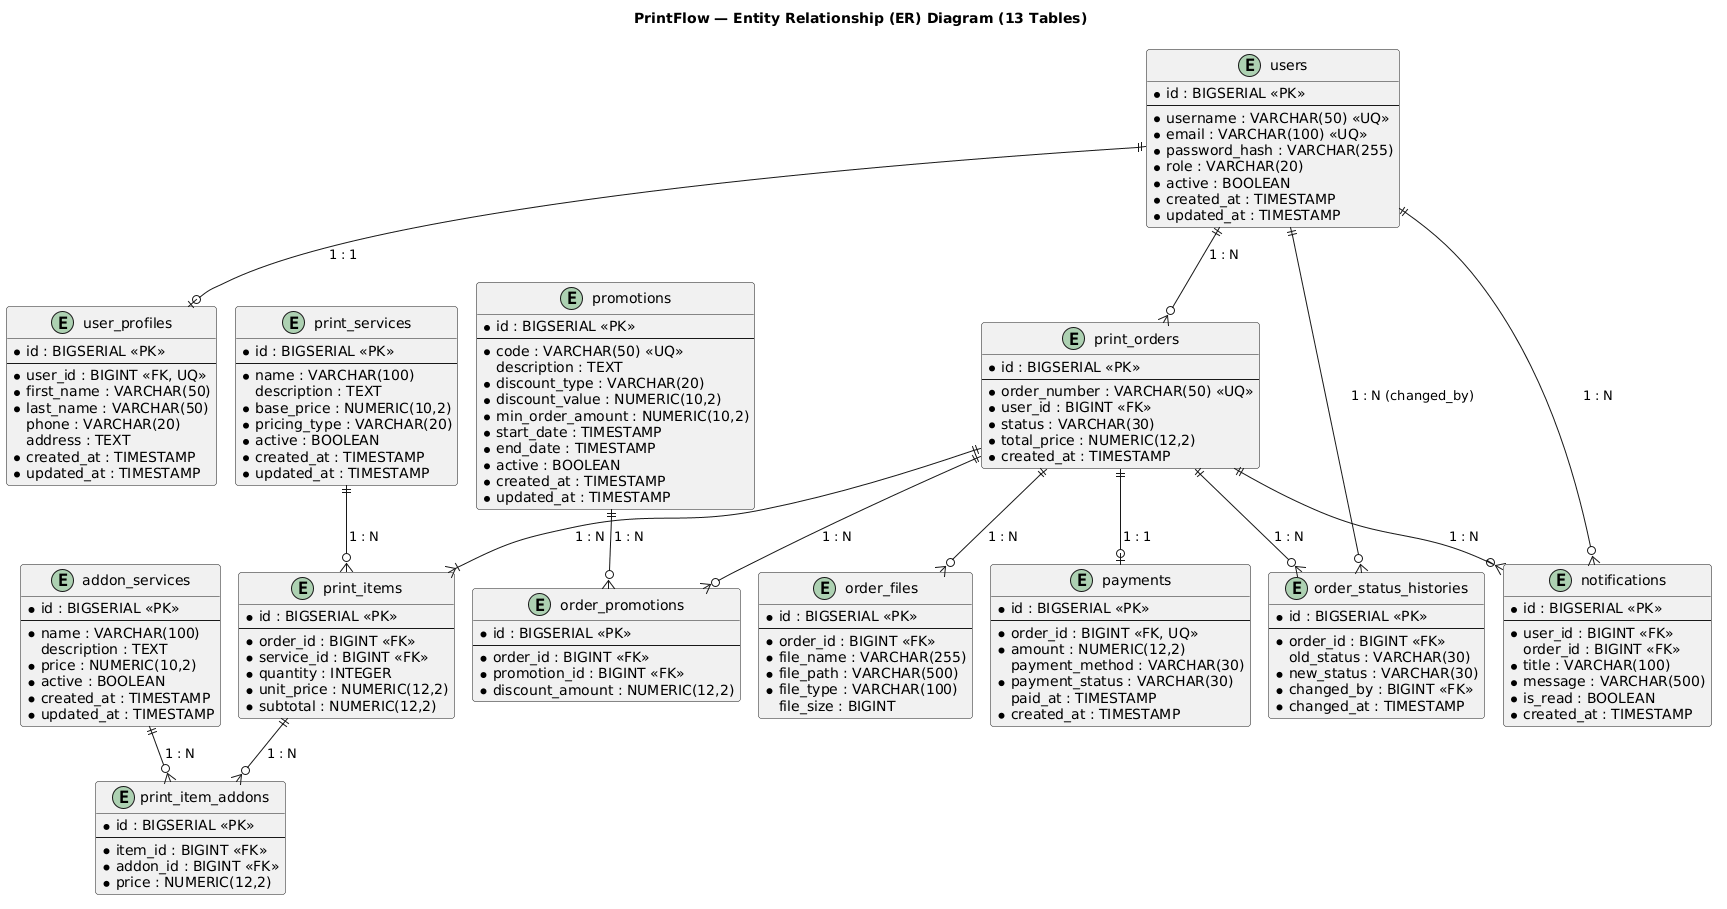
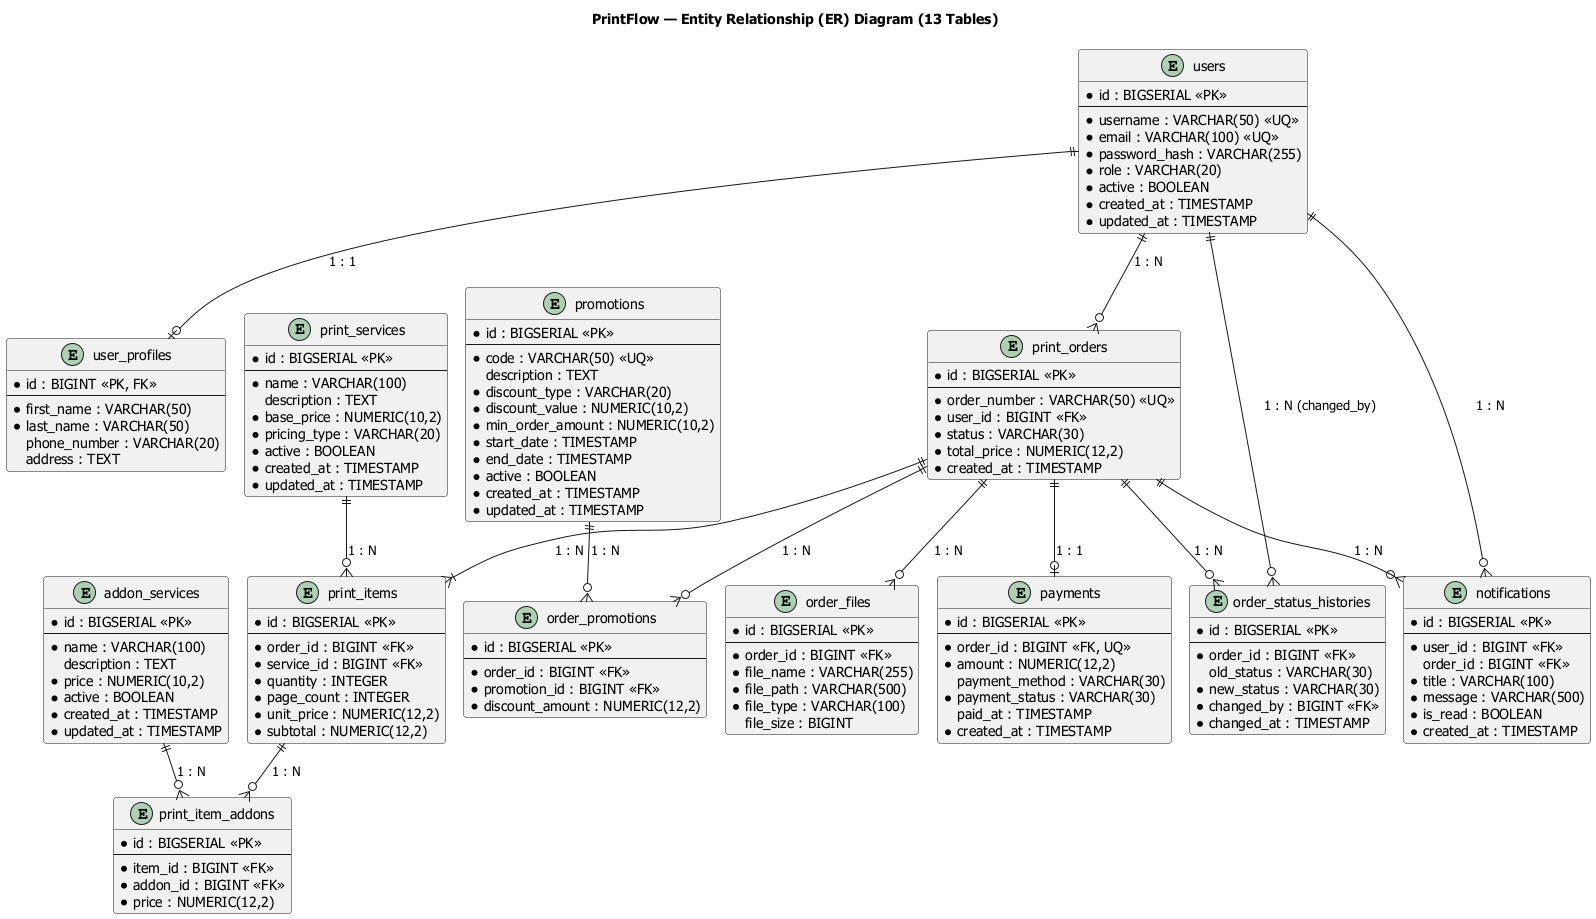
docs: align data dictionary and ER diagram with migrations

diff --git a/doc/data-dictionary.md b/doc/data-dictionary.md
@@ -43,19 +43,16 @@
 
 ## 2. ตาราง `user_profiles`
 เก็บข้อมูลส่วนบุคคลของผู้ใช้งาน (ความสัมพันธ์ 1:1 กับ `users`)
-* **PrimaryKey:** `id`
-* **Foreign Key:** `user_id` อ้างอิงไปยัง `users(id)` (ON DELETE CASCADE, Unique)
+* **PrimaryKey:** `id` (ใช้รหัสเดียวกับ `users.id` แบบ Shared Primary Key)
+* **Foreign Key:** `id` อ้างอิงไปยัง `users(id)` (ON DELETE CASCADE)
 
 | ชื่อฟิลด์ | ชนิดข้อมูล | ค่าว่าง (Null) | ค่าเริ่มต้น (Default) | คำอธิบาย |
 |---|---|:---:|---|---|
-| `id` | BIGSERIAL | No | Auto increment | รหัสโปรไฟล์ (PK) |
-| `user_id` | BIGINT | No | — | รหัสผู้ใช้เจ้าของโปรไฟล์ (FK, Unique) |
+| `id` | BIGINT | No | — | รหัสผู้ใช้เจ้าของโปรไฟล์ (PK และ FK ไปยัง `users.id`) |
 | `first_name` | VARCHAR(50) | No | — | ชื่อจริง |
 | `last_name` | VARCHAR(50) | No | — | นามสกุล |
-| `phone` | VARCHAR(20) | Yes | — | หมายเลขโทรศัพท์ |
-| `address` | TEXT | Yes | — | ที่อยู่สำหรับติดต่อหรือจัดส่ง |
-| `created_at` | TIMESTAMP | No | `CURRENT_TIMESTAMP` | วันและเวลาที่สร้างโปรไฟล์ |
-| `updated_at` | TIMESTAMP | No | `CURRENT_TIMESTAMP` | วันและเวลาที่แก้ไขข้อมูลล่าสุด |
+| `phone_number` | VARCHAR(20) | Yes | — | หมายเลขโทรศัพท์ |
+| `address` | TEXT | Yes | — | ที่อยู่สำหรับติดต่อ |
 
 ---
 
@@ -143,6 +140,7 @@
 | `order_id` | BIGINT | No | — | รหัสคำสั่งพิมพ์หลัก (FK) |
 | `service_id` | BIGINT | No | — | รหัสบริการงานพิมพ์ที่เลือก (FK) |
 | `quantity` | INTEGER | No | — | จำนวนชุดที่สั่งพิมพ์ (Copy Count) |
+| `page_count` | INTEGER | No | `1` | จำนวนหน้าต่อ 1 ชุด (เพิ่มใน V6, CHECK > 0) |
 | `unit_price` | NUMERIC(12,2) | No | — | ราคาเฉลี่ยต่อชุด (บาท) |
 | `subtotal` | NUMERIC(12,2) | No | — | ยอดรวมของรายการนี้ (บาท) |
 
